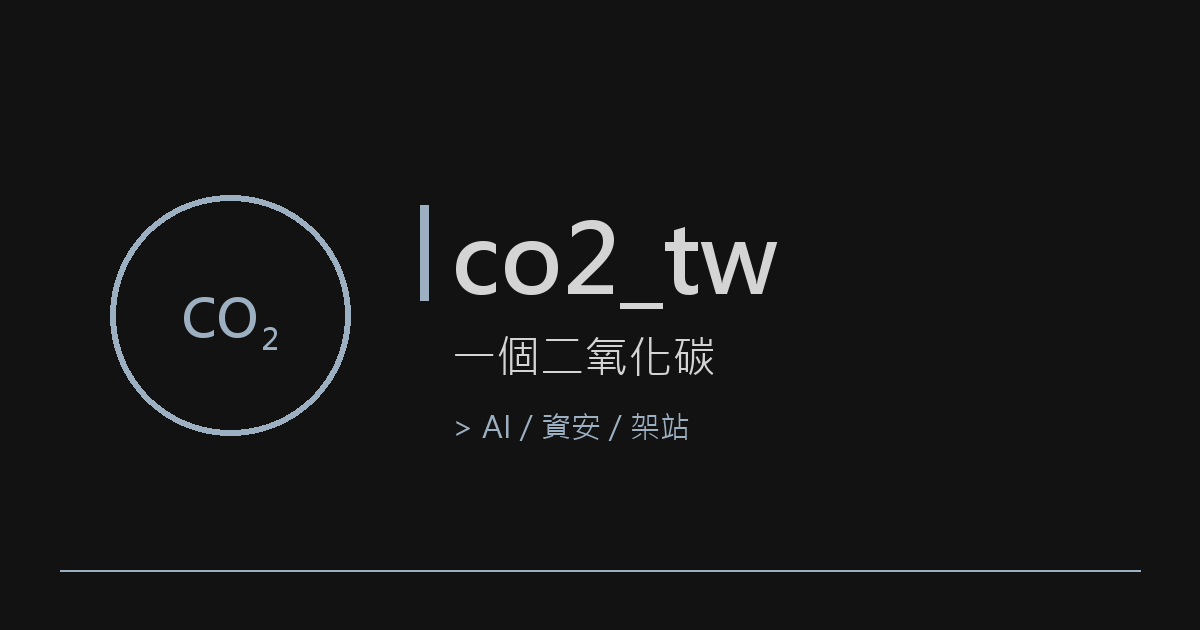
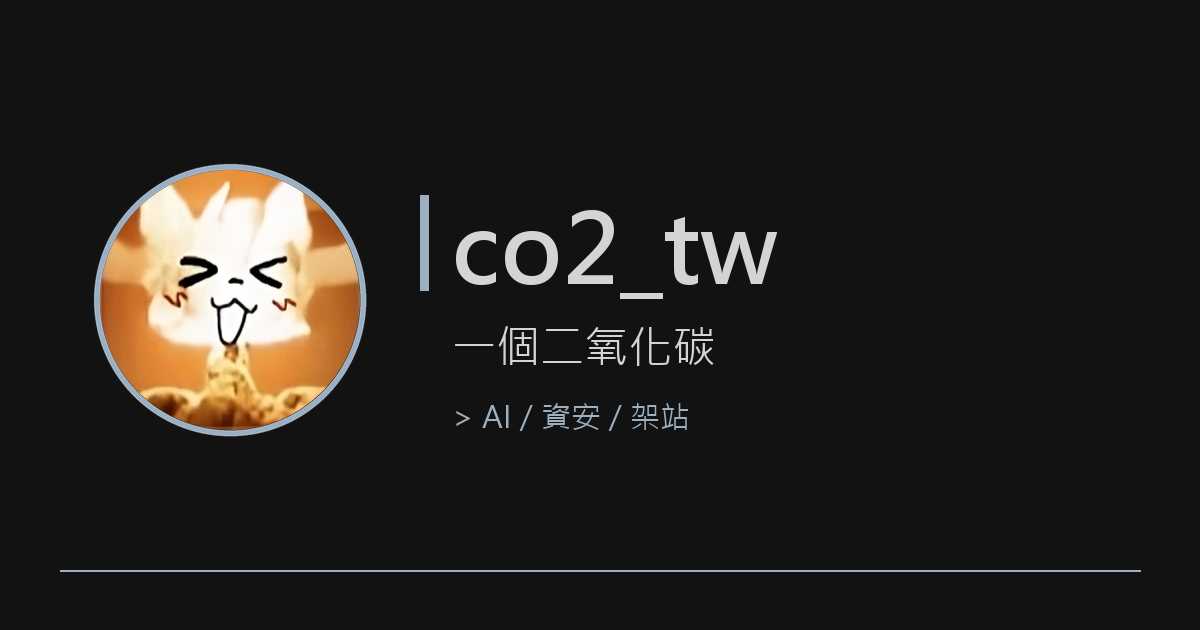
claude 好強喔

diff --git a/index.html b/index.html
@@ -82,8 +82,13 @@
 
     <div class="container" id="top">
         <header class="hero">
-            <div class="avatar" aria-hidden="true">
-                <span>CO<sub>2</sub></span>
+            <div class="avatar">
+                <span aria-hidden="true">CO<sub>2</sub></span>
+                <!-- 頭像來自 Gravatar：https://gravatar.com/innerbird1f740a9428
+                     載入失敗時會顯示底下的 CO2 字樣 -->
+                <img class="avatar-img" src="https://gravatar.com/avatar/5264a177f629a7337fcc2cd5b500cfdbd348653e7837d1ed5578ade198405a3b?s=240&amp;d=404"
+                     alt="co2_tw 的頭像" width="110" height="110" referrerpolicy="no-referrer"
+                     onerror="this.remove()">
             </div>
             <h1>co2_tw</h1>
             <p class="subtitle">一個二氧化碳</p>

diff --git a/style.css b/style.css
@@ -240,6 +240,22 @@ html:not(.js) .typing {
     font-size: 1.8em;
     font-weight: 700;
     animation: float 4s ease-in-out infinite;
+    position: relative;
+    overflow: hidden;
+}
+
+.avatar > span {
+    grid-area: 1 / 1;
+}
+
+.avatar-img {
+    position: absolute;
+    inset: 0;
+    width: 100%;
+    height: 100%;
+    object-fit: cover;
+    border-radius: 50%;
+    background: var(--bg);
 }
 
 @keyframes float {
